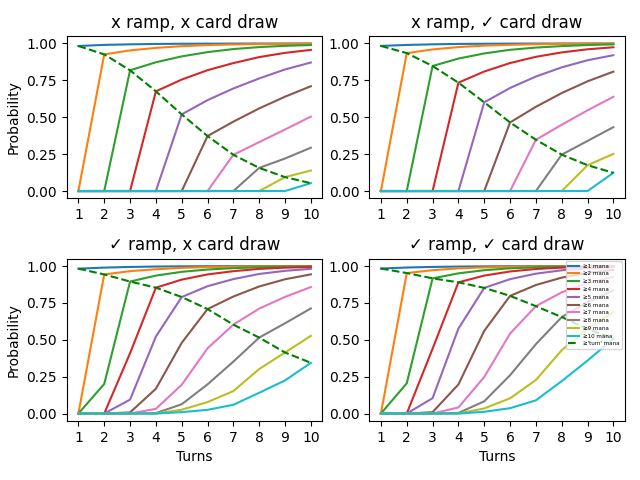
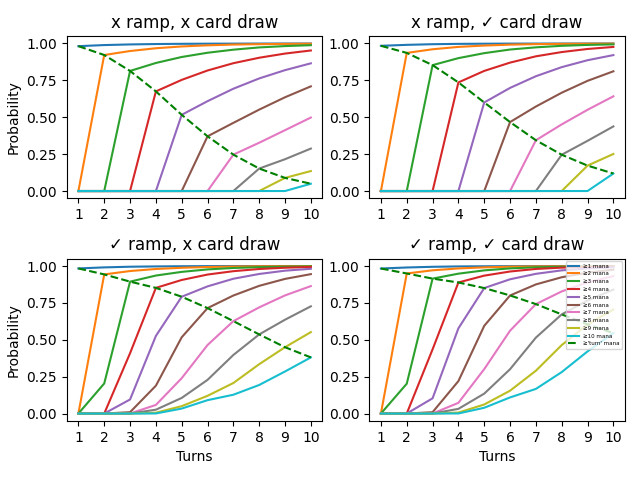
Update figures

diff --git a/main.py b/main.py
@@ -11,7 +11,7 @@ smothering_tithe   = Card("Smothering Tithe", cost=4, gold_sequence=Sequence.rep
 bounty_of_the_luxa = Card("Bounty of the Luxa", cost=4, mana_sequence=Sequence([0], [0, 3]), draw_sequence=Sequence([], [0, 1]))
 
 lands        = 38*[Card.untapped_land]
-ramp_package = 3*[elf] + 4*[talisman] + 4*[locket] + [bounty_of_the_luxa]
+ramp_package = 3*[elf] + 4*[talisman] + 4*[locket] + [smothering_tithe]
 draw_package = 4*[Card.cantrip] + [sign_in_blood, divination, phyrexian_arena]
 
 decks = []

diff --git a/README.md b/README.md
@@ -4,5 +4,5 @@
 ![Comparison of mana per turn probabilities of decks with/without ramp/card draw](https://github.com/TiesWestendorp/MTG-Mana-Simulator/blob/master/Figure_1.png?raw=true)
 ![Probability of being on curve for decks with/without ramp/card draw](https://github.com/TiesWestendorp/MTG-Mana-Simulator/blob/master/Figure_2.png?raw=true)
 
-Ramp package: 4 talismans, 4 lockets
+Ramp package: 3 elves, 4 talismans, 4 lockets, 1 Smothering Tithe
 Draw package: 3 cantrips, 1 Divination, 1 Phyrexian Arena
